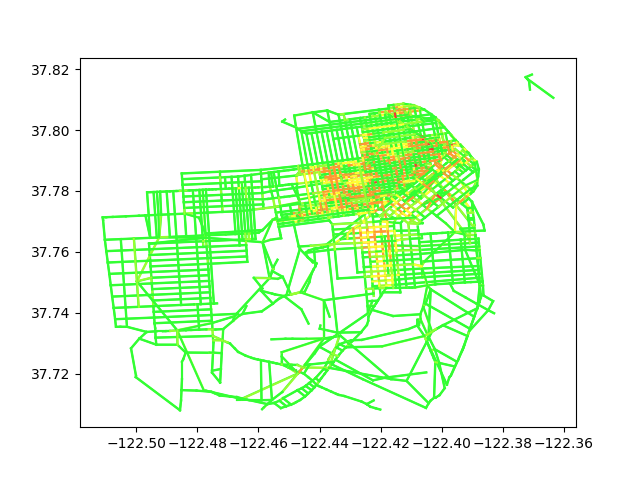
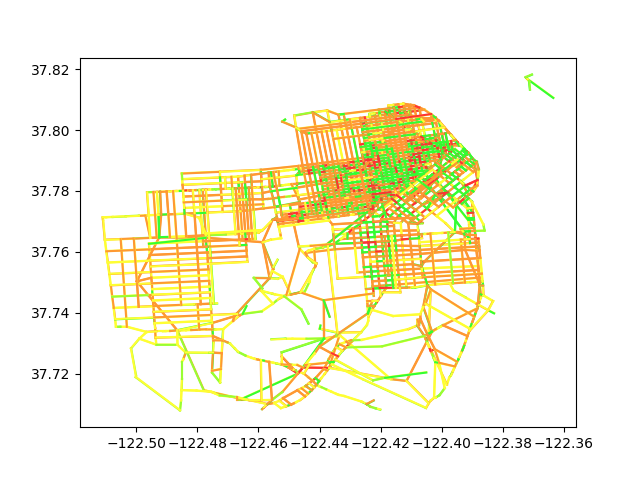
11

Changed region(s): [[0.1562, 0.1875, 0.7812, 0.875], [0.8125, 0.1562, 0.8438, 0.1875], [0.2188, 0.7812, 0.25, 0.8125]]

diff --git a/model/Simulation.py b/model/Simulation.py
@@ -25,8 +25,9 @@ class Simulation():
         self.updateTime = updateTime
         self.totalTime = totalTime
         self.trafficLevels = trafficLevels
-        self.animation=animation
-        self.patchTime=patchTime
+        self.animation = animation
+        self.patchTime = patchTime
+        self.totalCar = 0
         self._rdSegmentDis()
 
     def _rdSegmentDis(self):
@@ -73,7 +74,7 @@ class Simulation():
             try:
                 self.nodes[node]["TransProb"] = 1/len(successors)
             except:
-                print(node)
+                pass
             
     def startRecord(self):
         """
@@ -111,6 +112,7 @@ class Simulation():
         """
         if time%self.timeIntervalOfAddCar != 0:
             return
+        self.totalCar = 0
         for node in self.roads.nodes:
             successors = self.roads.getSuccessors(node)
             for succ in successors:
@@ -126,6 +128,8 @@ class Simulation():
                     speed = max(self.genRV(self.distCarSpeed), 1)
                     self.nodes[node]["Queues"][(succ,node)].append(time + position/speed)
                 self.nodes[node]["Queues"][(succ,node)].sort()
+                self.totalCar += len(self.nodes[node]["Queues"][(succ,node)])
+        self.distNumOfCarDelete
     
     def deleteCar(self, time):
         """
@@ -163,12 +167,12 @@ class Simulation():
             for car in carPass:
                 if car > time:
                     break
+                if random.random()<0.5:
+                    continue
                 record = self.nodes[node]["Records"][(succ,node)]
                 self.nodes[node]["Records"][(succ,node)] = ((record[0]*record[1]+(time-car))/(record[1]+1), record[1]+1)
                 u = np.random.uniform()
                 index0 = int(u*len(successors))
-                # if index0 == len(successors):
-                #     continue
                 success = list(successors)[index0]
                 speed = self.genRV(self.distCarSpeed)
                 self.nodes[success]["Queues"][(node,success)].append(time+self.updateTime+self.rdSegDis[(node, success)]/speed)
@@ -177,7 +181,7 @@ class Simulation():
     def simu(self, time):
         self.addCars(time)
         self.updateQueues(time)
-        self.deleteCar(time)
+        # self.deleteCar(time)
 
     def simulation(self):
         self.initialization()
@@ -195,6 +199,7 @@ class Simulation():
                         hot = self.nodes[node]["Records"][(succ,node)][0]
                         draw[(succ,node)] = self.trafficLevel(hot)
                 self.patch.append(draw)
+        print(self.totalCar)
         if animation:
             gui.run(self, False)
 
@@ -266,15 +271,15 @@ if __name__ == '__main__':
     # traffic light green time for every adjacent road segment
     carAddBaseOn_rdSegDis = False
     # whether the addings of cars based on the length of a road segment
-    timeIntervalOfAddCar = 60
+    timeIntervalOfAddCar = 1
     # Add cars every {timeIntervalOfAddCar} seconds
-    distNumOfCarAdd = ("geometric", (4,))
+    distNumOfCarAdd = ("poisson", (6,))
     # the distribution of number of cars to add each time on each road segment
     carAddPosRandom = True
     # whether the added car is randomly distributed on the road or just simply at the intersection
-    timeIntervalOfDeleteCar = 180
+    timeIntervalOfDeleteCar = 1
     # Delete cars every {timeIntervalOfDeleteCar} seconds
-    distNumOfCarDelete = ("constant", (0,))
+    distNumOfCarDelete = ("poisson", (6,))
     # the distribution of number of cars to delete each time on each road segment
     distCarSpeed = ("normal", (6,1))
     # the distribution of the speed for cars
@@ -284,7 +289,8 @@ if __name__ == '__main__':
     # uodate our system every {updateTime} seconds
     totalTime = 60*60*1
     # the total time of our simulation system
-    trafficLevels = [30,60,120,240,480]
+    # trafficLevels = [30,60,120,240,480]
+    trafficLevels = [2,4,8,16,32]
     # trafficLevels = [t1,t2,t3,t4,t5]: the average waiting time in (0, t1] is viewed as low,
     # in [t1, t2] is viewed as light, in [t2, t3] is viewed as moderate
     # in [t3, t4] is viewed as heavy, in [t4, t5] is viewed as extra heavy
